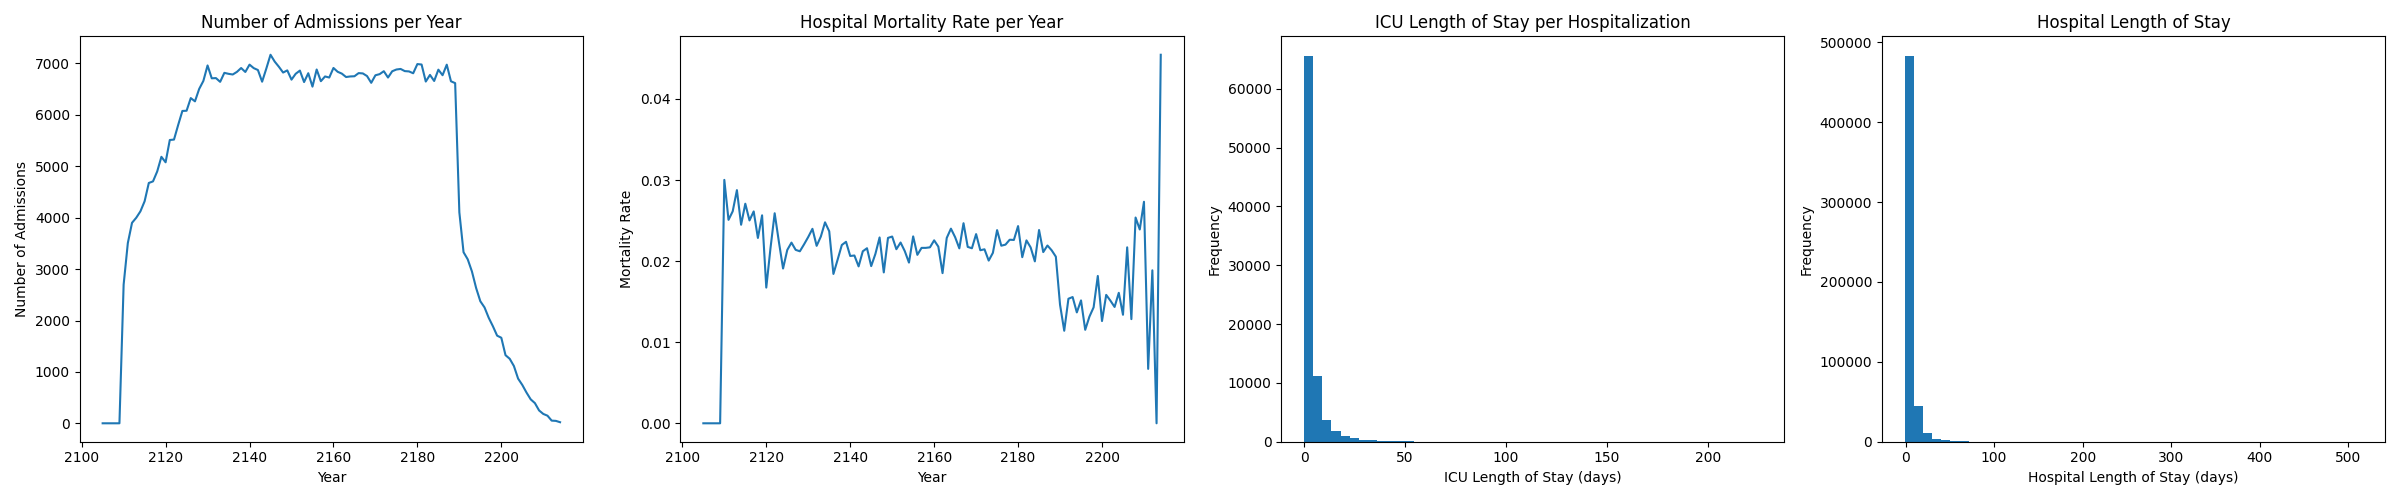
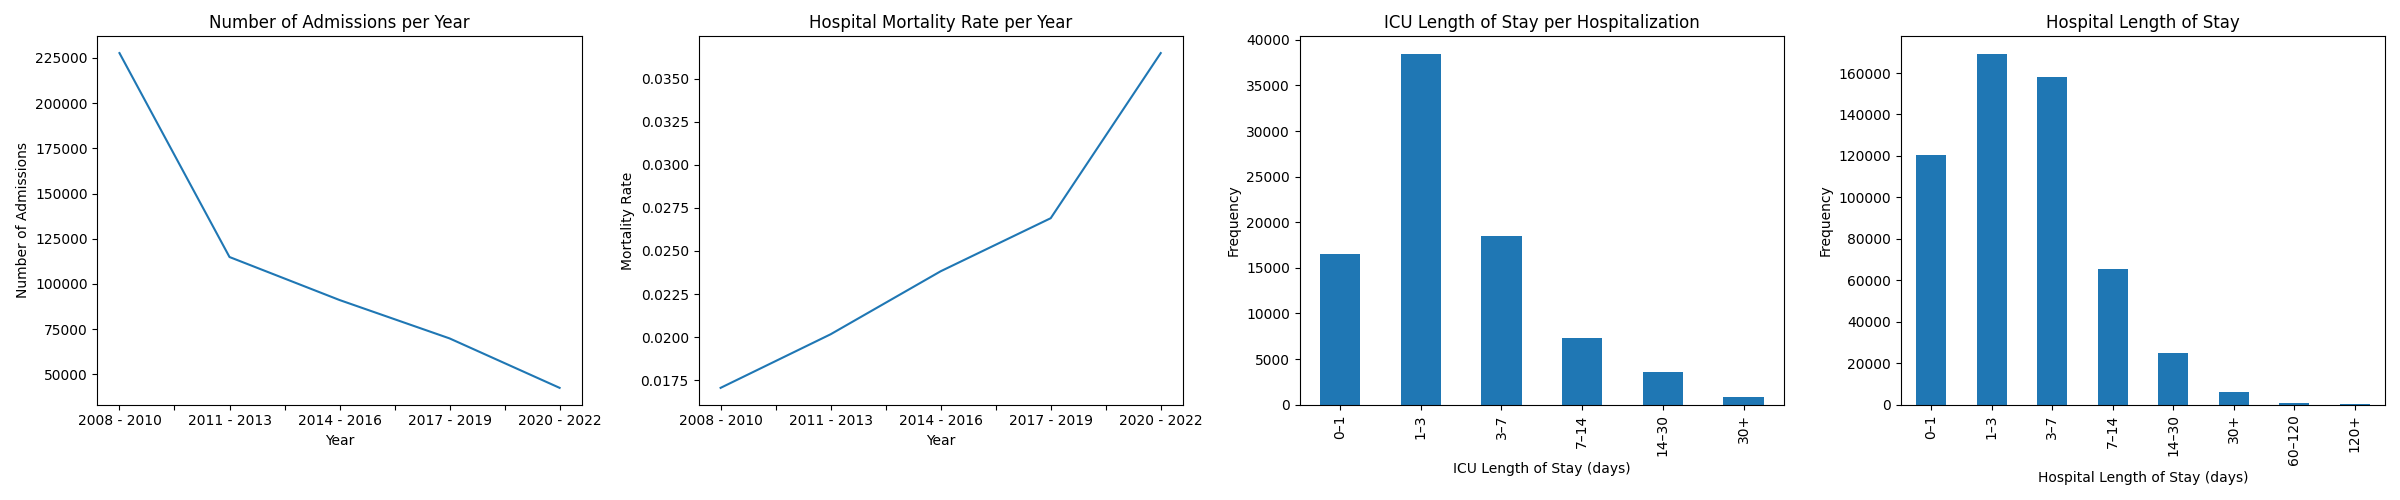
Graph updates

diff --git a/challenges.py b/challenges.py
@@ -23,17 +23,25 @@ icu["intime"] = pd.to_datetime(icu["intime"])
 icu["outtime"] = pd.to_datetime(icu["outtime"]) 
 
 
-admissions["year"] = admissions["admittime"].dt.year
-admissions_per_year = admissions.groupby("year")["hadm_id"].nunique()
+
+adm = admissions.merge(
+    patients[["subject_id", "anchor_year_group"]],
+    on="subject_id",
+    how="left"
+)
+
+adm_per_group = adm.groupby("anchor_year_group")["hadm_id"].nunique()
+mort_per_group = adm.groupby("anchor_year_group")["hospital_expire_flag"].mean()
 
 overall_mortality_rate= ((admissions["hospital_expire_flag"] == 1).astype(int)).mean()
 icu_mortality = admissions[admissions["hadm_id"].isin(icu["hadm_id"])]["hospital_expire_flag"].mean()
-mortality_per_year = admissions.groupby("year")["hospital_expire_flag"].mean()
+
 
 icu["icu_los"] = (icu["outtime"] - icu["intime"]).dt.total_seconds() / (24*3600)
-icu_los_per_hadm = icu.groupby("hadm_id")["icu_los"].sum()
+icu_los_per_hadm = icu.groupby("hadm_id")["icu_los"].sum().to_frame()
+icu_los_per_hadm["bucket"] = pd.cut(icu_los_per_hadm["icu_los"], bins=[0,1,3,7,14,30,10000],labels=["0–1", "1–3", "3–7", "7–14", "14–30", "30+"], right=False)
 admissions["hosp_length"] = (admissions["dischtime"]-admissions["admittime"]).dt.total_seconds() / (24*3600)
-
+adm_length = pd.cut(admissions["hosp_length"], bins=[0,1,3,7,14,30,60,120,10000],labels=["0–1", "1–3", "3–7", "7–14", "14–30", "30+", "60–120", "120+"], right=False)
 p_diagnoses = diagnoses[diagnoses["seq_num"]==1]
 p_diagnoses = p_diagnoses.merge(d_diagnoses, on="icd_code", how="left")
 top_primary = (p_diagnoses["long_title"].value_counts().head(10))
@@ -47,21 +55,22 @@ print("ICU Mortality:", icu_mortality)
 print("Top Primary Diagnoses:\n", top_primary)
 
 fig,(ax1,ax2,ax3,ax4)=plt.subplots(ncols=4,figsize=(24,5))
-admissions_per_year.plot(ax=ax1)
+adm_per_group.plot(ax=ax1)
 ax1.set_title("Number of Admissions per Year")
 ax1.set_xlabel("Year")
 ax1.set_ylabel("Number of Admissions")
-mortality_per_year.plot(ax=ax2)
+mort_per_group.plot(ax=ax2)
 ax2.set_title("Hospital Mortality Rate per Year")
 ax2.set_xlabel("Year")
 ax2.set_ylabel("Mortality Rate")
-icu_los_per_hadm.plot.hist( bins=50, ax=ax3)
+icu_los_per_hadm["bucket"].value_counts().sort_index().plot.bar(ax=ax3)
 ax3.set_title("ICU Length of Stay per Hospitalization")
 ax3.set_xlabel("ICU Length of Stay (days)")
 ax3.set_ylabel("Frequency")
-admissions["hosp_length"].plot.hist(bins=50,ax=ax4)
+adm_length.value_counts().sort_index().plot.bar(ax=ax4)
 ax4.set_title("Hospital Length of Stay")
 ax4.set_xlabel("Hospital Length of Stay (days)")
 ax4.set_ylabel("Frequency") 
 plt.tight_layout()
 fig.savefig("graphs/mimic_challenges.png")
+print(adm_length)
